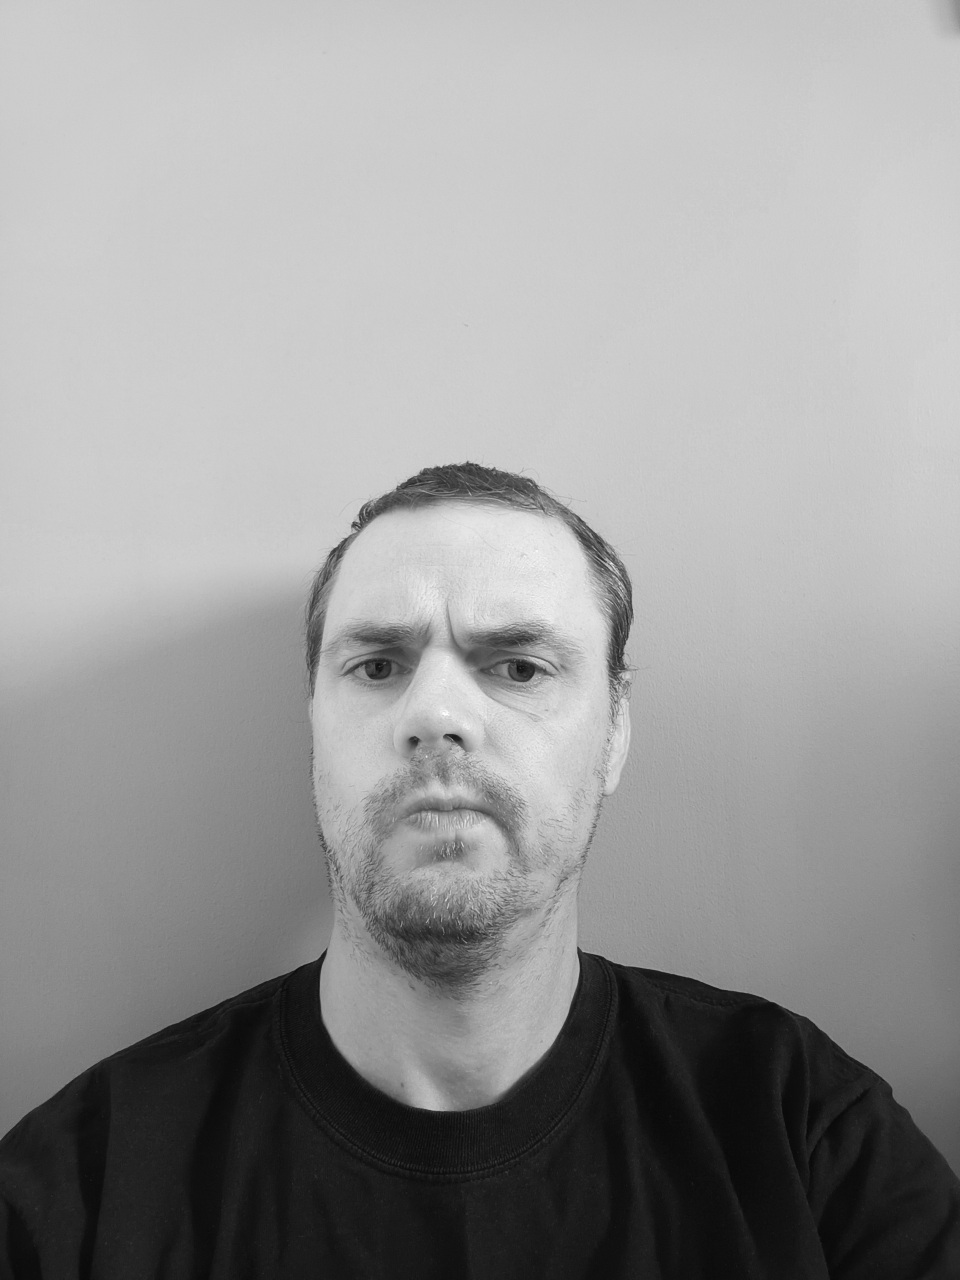
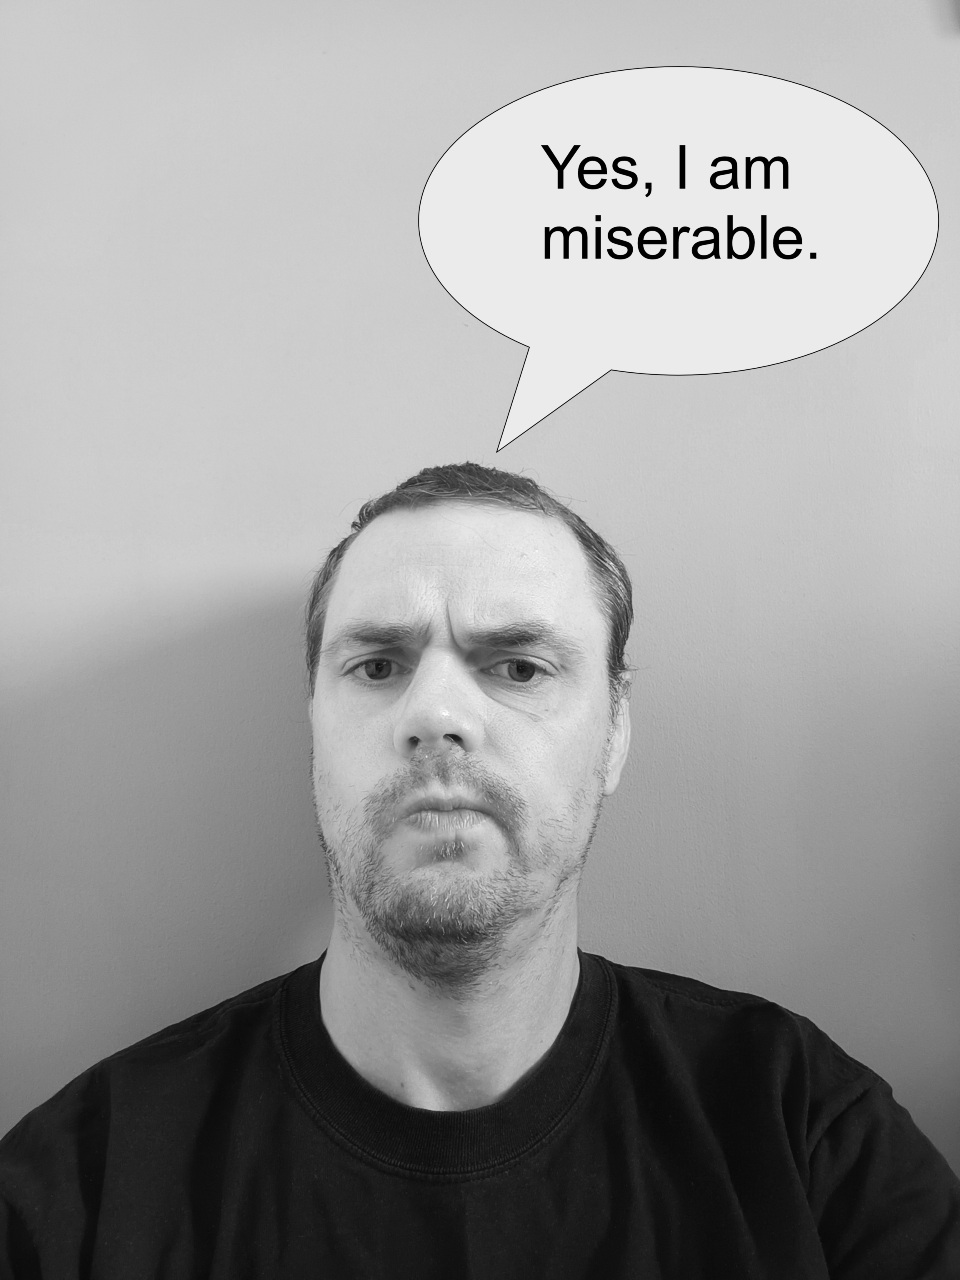
changed headshot photo and added wraparound for about me

Changed region(s): [[0.4375, 0.0312, 1.0, 0.3438]]

diff --git a/aboutme.md b/aboutme.md
@@ -17,11 +17,11 @@ He began writing when he hit a period of depression in his mid 40's. One day he 
 
 When he finished the book, he had the writing bug. He needed more. So far he has over twenty different book ideas that will become published works in the coming years.
 
+<hr style="clear: both; visibility: hidden; margin: 0.5rem 0;">
 
 ---
 
-
-## How to contact me
+<h2 style="clear: both;">How to contact me</h2>
 
 Please sign up for my newsletter and mailing list and get a free short story (The Hockenspier Chronicles - Count Vladisivic) as a reward. It's about a vampire going through a mid-life crisis at the age of 537 and seeking professional help.
 
@@ -36,7 +36,6 @@ Social media
 
 ---
 
-
 ### A Little More About Me
 
 Born amongst the smog in Teesside, England, Andrew spent most of his childhood playing football and computer games. At five, his dad introduced him to the guitar, and he pretty much sucked at it from the beginning, eventually putting it away as he became a teenager. Later, he discovered rock and heavy metal, which inspired him to pick up the guitar again and (attempt to) play his favourite tunes. Since 1998, he has written numerous songs, played in various bands, and released music on streaming services, YouTube, and other platforms that people ignore.
@@ -50,7 +49,5 @@ He also enjoys making his own beer and wine and has been doing so for over 15+ y
 He still lives in Teesside with his family and has a day job that pays the bills.
 
 ---
-
-
 
 © 2026 Andrew Marron
